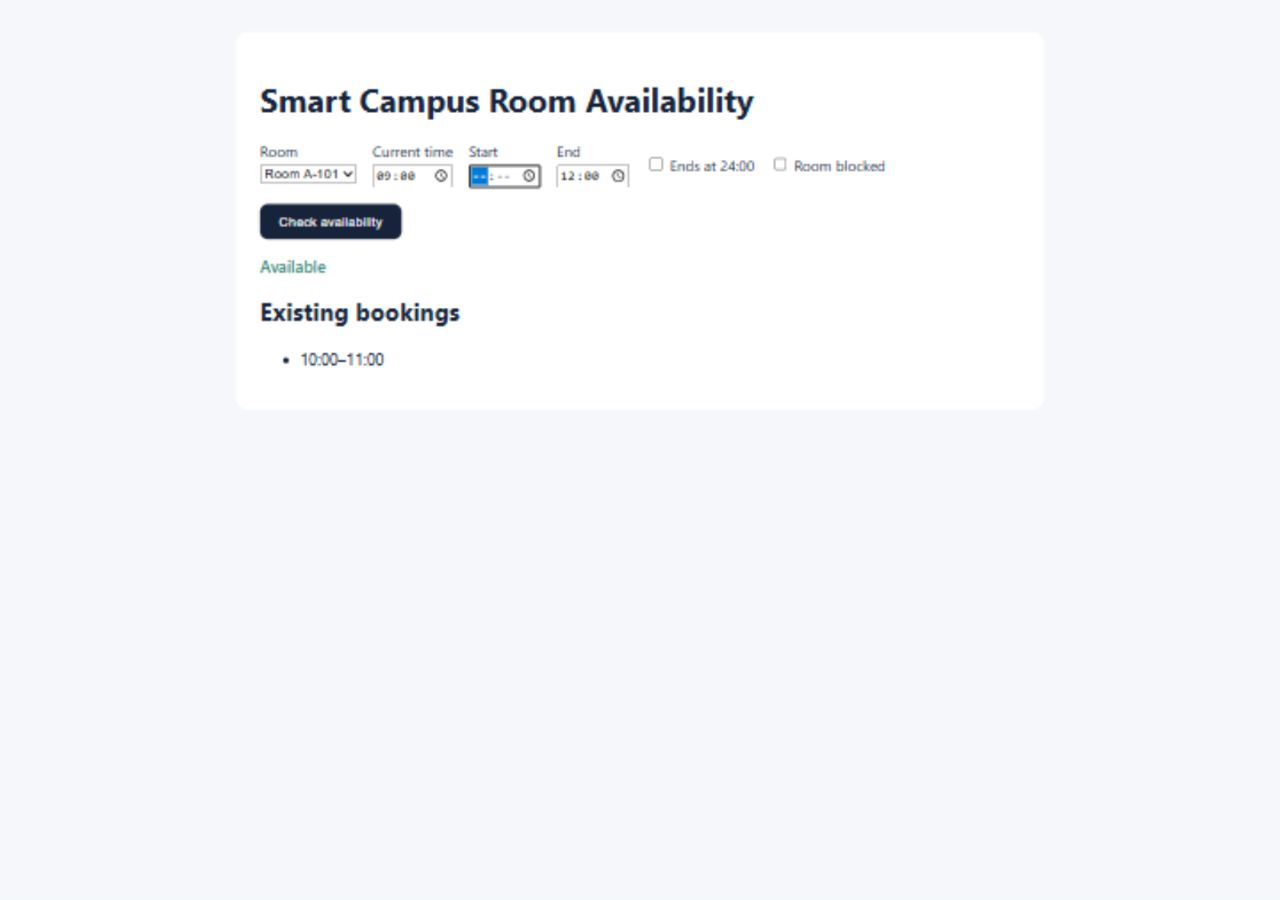
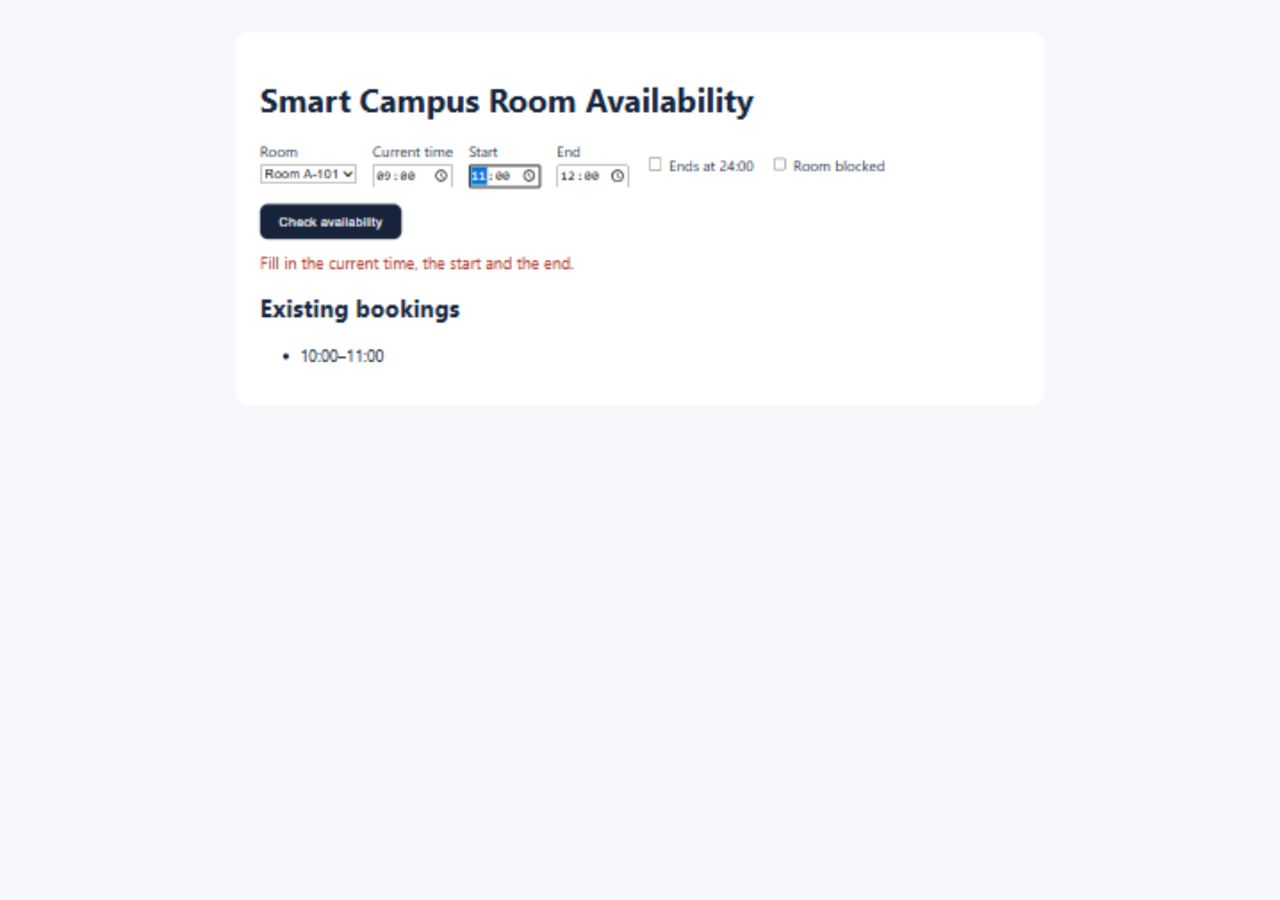
week-07: add required-field feedback and verify UI

Changed region(s): [[0.1875, 0.28, 0.4688, 0.4044], [0.5625, 0.1556, 0.5938, 0.1867], [0.375, 0.1867, 0.4062, 0.2178]]

diff --git a/week-07/app/src/App.tsx b/week-07/app/src/App.tsx
@@ -50,22 +50,34 @@ export default function App() {
     setResult(ok);
   }
 
+  function clearFeedback() {
+    setResult(null);
+    setError('');
+  }
+
+  function reportMissingInput() {
+    setResult(null);
+    setError('Fill in the current time, the start and the end.');
+  }
+
   return (
     <main className="page">
       <h1>Smart Campus Room Availability</h1>
+      <form onSubmit={event => { event.preventDefault(); check(); }} onInvalidCapture={reportMissingInput}>
       <div className="row">
         <label>Room
           <select value={roomId} onChange={e => setRoomId(e.target.value)}>
             {ROOMS.map(r => <option key={r.id} value={r.id}>{r.name}</option>)}
           </select>
         </label>
-        <label>Current time<input type="time" value={now} onChange={e => setNow(e.target.value)} /></label>
-        <label>Start<input type="time" value={start} onChange={e => setStart(e.target.value)} /></label>
-        <label>End<input type="time" value={end} disabled={endOfDay} onChange={e => setEnd(e.target.value)} /></label>
-        <label className="inline"><input type="checkbox" checked={endOfDay} onChange={e => setEndOfDay(e.target.checked)} /> Ends at 24:00</label>
+        <label>Current time<input type="time" required value={now} onChange={e => { setNow(e.target.value); clearFeedback(); }} /></label>
+        <label>Start<input type="time" required value={start} onChange={e => { setStart(e.target.value); clearFeedback(); }} /></label>
+        <label>End<input type="time" required={!endOfDay} value={end} disabled={endOfDay} onChange={e => { setEnd(e.target.value); clearFeedback(); }} /></label>
+        <label className="inline"><input type="checkbox" checked={endOfDay} onChange={e => { setEndOfDay(e.target.checked); clearFeedback(); }} /> Ends at 24:00</label>
         <label className="inline"><input type="checkbox" checked={blocked} onChange={e => setBlocked(e.target.checked)} /> Room blocked</label>
       </div>
-      <button onClick={check}>Check availability</button>
+      <button type="submit">Check availability</button>
+      </form>
       {error && <p className="error">{error}</p>}
       {result !== null && (
         <p className={`result ${result ? 'available' : 'unavailable'}`}>{result ? 'Available' : 'Unavailable'}</p>

diff --git a/week-07/lab-report.md b/week-07/lab-report.md
@@ -139,12 +139,12 @@ Assistant answer: revise T06 from false to true because AC2 permits the inclusiv
 ```text
  RUN  v2.1.9 C:/Users/Acer Nitro V15/se-practice/week-07/app
 
- ✓ src/booking.test.ts (17 tests) 15ms
+ ✓ src/booking.test.ts (17 tests) 9ms
 
  Test Files  1 passed (1)
       Tests  17 passed (17)
-   Start at  03:08:01
-   Duration  1.80s
+   Start at  03:36:23
+   Duration  851ms (transform 47ms, setup 0ms, collect 97ms, tests 9ms, environment 0ms, prepare 120ms)
 ```
 
 ---
@@ -179,7 +179,7 @@ All three changes reverted, then the full suite was run again: yes.
 | --- | --- | --- | --- | --- | --- |
 | U1 | Check 11:00–12:00, unblocked | Available and sample booking shown | AC5 | Available appeared and the 10:00–11:00 booking remained visible; saved as evidence/ui-1.jpg. | Pass |
 | U2 | Enable blocked and check again | Unavailable replaces earlier result | AC3, AC5 | Available changed to Unavailable; saved as evidence/ui-2.jpg. | Pass |
-| U3 | Clear a required input and submit | Understandable validation feedback | AC6 | The empty native time control reverted to 11:00 on submit, so the missing-input branch could not be reached. The blank field before submit is shown in evidence/ui-3.jpg. | Not testable |
+| U3 | Clear a required input and submit | Understandable validation feedback | AC6 | The time control redisplayed 11:00, but inline red feedback appeared, the old result cleared, and evidence/ui-3.jpg records it. | Pass |
 | U4 | Use phone width | Controls and result remain usable | AC6 | At 375 × 812, fields stacked vertically and the result and booking list remained readable; saved as evidence/ui-4.jpg. | Pass |
 | U5 | Repeat checks on same data | Existing bookings unchanged | AC5 | Rechecked with start 11:15; the 10:00–11:00 booking remained unchanged; saved as evidence/ui-5.jpg. | Pass |
 
@@ -191,17 +191,17 @@ All three changes reverted, then the full suite was run again: yes.
 
 | Check | Why it stays |
 | --- | --- |
-| none | All five screenshots are present. U3 remains Not testable in section 8 because the browser time control reverted before submission. |
+| none | All five screenshots are present, and U1–U5 are judged in section 8. |
 
 ### 9.2 Original and improved suites
 
 | Measure | First suite | Improved suite |
 | --- | --- | --- |
 | Executed / passed / failed | 17 / 16 / 1 | 17 / 17 / 0 |
-| Requirements with meaningful tests | AC1–AC5 and X1/X2; T06 expected value was wrong; AC6 is manual. | AC1–AC5 and X1/X2; AC6 is manual and empty-input feedback was not testable. |
+| Requirements with meaningful tests | AC1–AC5 and X1/X2; T06 expected value was wrong; AC6 is manual. | AC1–AC5 and X1/X2; AC6 is covered by the page check and screenshots. |
 | Selected mutants detected | Not run against failing first suite. | M1, M2 and M3 detected. |
 | Accepted / revised / rejected tests | Accepted real import and fixed fixtures; revised T06; rejected its incorrect expectation. | All 17 cases assert exact outcomes and include AC5 data preservation. |
-| Remaining limitations | T06 could have legitimized a wrong implementation. | Missing-input feedback could not be reached through this browser's time control; reversed existing-booking behavior has no AC. |
+| Remaining limitations | T06 could have legitimized a wrong implementation. | Reversed existing-booking behavior has no AC. |
 
 ### 9.3 What no AC decides
 
@@ -211,4 +211,4 @@ I called canBook with start 660, end 720, now 540, blocked false, and bookings [
 
 ## 10. Conclusion (120–180 words)
 
-The first suite's important mistake was T06: it expected a booking of exactly 120 minutes to be rejected. AC2 says only a duration longer than 120 minutes is rejected. The first run failed on that case, and checking the expected value against AC2 showed the test was wrong while canBook was right. I changed the test, not the implementation. The final run proves that the 17 named cases pass for the code that was run, including the tested time boundaries, overlaps, blocked state and unchanged booking list. It does not prove every possible booking input is correct, or that the page's feedback is clear in every browser. The defect trials provide evidence for three specific faults: the suite caught the duration cutoff, endpoint overlap and missing blocked-room check. The five screenshots show the states I inspected, including a portrait 375-pixel view. One manual limitation remains: this browser's time control reverted an empty field before submit, so I could not verify missing-input feedback. Behavior for malformed existing bookings is also unspecified by the criteria.
+The first suite's important mistake was T06: it expected a booking of exactly 120 minutes to be rejected. AC2 says only a duration longer than 120 minutes is rejected. The first run failed on that case, and checking the expected value against AC2 showed the test was wrong while canBook was right. I changed the test, not the implementation. The final run proves that the 17 named cases pass for the code that was run, including the tested time boundaries, overlaps, blocked state and unchanged booking list. It does not prove every possible booking input is correct, or that the page's feedback is clear in every browser. The defect trials provide evidence for three specific faults: the suite caught the duration cutoff, endpoint overlap and missing blocked-room check. The five screenshots show the states I inspected, including a portrait 375-pixel view and the page's required-field feedback. One limitation remains: behavior for malformed existing bookings is unspecified by the criteria.

diff --git a/week-07/AI_USAGE.md b/week-07/AI_USAGE.md
@@ -6,9 +6,9 @@ Required by the course academic policy (Generative AI use level D).
 | --- | --- | --- | --- |
 | Codex desktop assistant | not displayed | Generated the first test suite in this conversation | suites/first/booking.test.ts, app/src/booking.test.ts |
 | Codex desktop assistant | not displayed | Reviewed the failed T06 expectation and suggested the repair | app/src/booking.test.ts, lab-report.md |
-| Codex desktop assistant | not displayed | Extracted canBook and prepared the report/disclosure | app/src/App.tsx, app/src/booking.ts, lab-report.md, AI_USAGE.md, submission.yml |
+| Codex desktop assistant | not displayed | Extracted canBook, added required-input feedback, and prepared the report/disclosure | app/src/App.tsx, app/src/booking.ts, lab-report.md, AI_USAGE.md, submission.yml |
 
-I used an assistant to extract canBook and fix a defect in it: yes, extraction only. I copied the existing decision conditions into booking.ts and checked the app's decision with the Vitest suite and the page import. No intended behavior fix was made.
+I used an assistant to extract canBook and improve the page's required-input validation: yes. I copied the existing booking conditions into booking.ts without changing their decision behavior. I also wrapped the inputs in a form with required fields, cleared stale results on edits, and added inline feedback for invalid submits. I checked the empty-start path in the browser: the old Available result cleared and the validation message appeared.
 
 I used another assistant as well: no.
 
